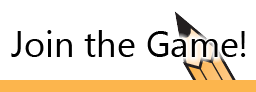
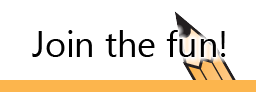
website is pretty much done!

Changed region(s): [[0.0312, 0.2609, 0.9688, 0.6957], [0.25, 0.3261, 0.2812, 0.3696]]

diff --git a/public_html/assets/javascript/paint.js b/public_html/assets/javascript/paint.js
@@ -1138,12 +1138,12 @@ function inviteFriends(tempGameId)
 // pops open a window that gives the user a url that can be shared with friends so that
 // people can join the current paint session
 {
-	window.open("invite.html", "invite", "menubar=no, width=320, height=460, toolbar=no");
+	var popupWindow = window.open("", "invite", "menubar=no, width=440, height=120, toolbar=no");
+	popupWindow.document.write("<head><link href=\"assets/stylesheets/basic.css\" rel=\"stylesheet\" type=\"text/css\" /></head><body><div id=\"headerLite\"></div><div style=\"margin: 16px;\"><h3>Invite your friends by sending them this link!</h3>http://www.wepaint.us/entry.php?game=" + tempGameId + "</p></body>");
 }
 
 
 function downloadPainting()
-// opens a popup window that allows the user to download their painting
 {
 	var downloadedImage = canvas.toDataURL("image/png");
 	var popupWindow = window.open("", "download", "menubar=no, width=720, height=540, toolbar=no");

diff --git a/public_html/about.html b/public_html/about.html
@@ -6,7 +6,6 @@
 	<head>
 		<link href="assets/stylesheets/basic.css" rel="stylesheet" type="text/css" />
 		<meta charset="UTF-8" />
-		<script src="assets/javascript/basic.js" type="text/javascript"></script>
 		<title>About ~ WePaint.us</title>
 	</head>
 
@@ -22,10 +21,6 @@
 			<div id="contentLiteBottom">
 				<h3>We Paint is a semester long project by just four students currently attending <a href="http://www.selu.edu/" target="_blank">Southeastern Louisiana University</a>.</h3>
 				<h3>Check out this project on <a href="https://github.com/ScootrNova/Jiminy-Cricket" target="_blank">github</a>!</h3>
-				<br />
-				<a href="index.php">
-					<img src="images/buttons/backward-48.png" alt="Back" class="noBorder" id="backward-48"  onmouseout="imgMouseOff('buttons', 'backward-48')" onmouseover="imgMouseOn('buttons', 'backward-48')" />
-				</a>
 			</div>
 		</div>
 	</body>

diff --git a/public_html/assets/stylesheets/create.css b/public_html/assets/stylesheets/create.css
@@ -82,16 +82,20 @@ div#compatRight
 div#settingsLeft
 {
 	float: left;
+	height: 140px;
 	text-align: center;
-	width: 284px;
+	vertical-align: middle;
+	width: 370px;
 }
 
 
 div#settingsRight
 {
 	float: left;
+	height: 140px;
 	text-align: center;
-	width: 484px;
+	vertical-align: middle;
+	width: 370px;
 }
 
 
@@ -126,6 +130,8 @@ form#settings
 	padding-left: 16px;
 	padding-right: 16px;
 	padding-top: 16px;
+	text-align: center;
+	vertical-align: middle;
 	width: 768px;
 }
 

diff --git a/public_html/assets/javascript/basic.js b/public_html/assets/javascript/basic.js
@@ -14,6 +14,12 @@ function imgMouseOff(folder, id)
 }
 
 
+function aboutPage()
+{
+	window.open("about.html", "about", "menubar=no, width=800, height=400, toolbar=no");
+}
+
+
 function findEpoch()
 {
 	return Math.round((new Date()).getTime() / 1000);

diff --git a/public_html/index.php b/public_html/index.php
@@ -131,7 +131,7 @@
 				}
 			);
 		</script>
-		<title>Create a Game ~ WePaint.us</title>
+		<title>Paint with your Friends! ~ WePaint.us</title>
 	</head>
 
 	<body>
@@ -140,7 +140,7 @@
 			<img src="images/wepaint.png" alt="WePaint.us" />
 			<img src="images/nav/divider.png" />
 			<img src="images/nav/spacer.png" />
-			<a href="about.html">
+			<a href="#" onclick="aboutPage()">
 				<img src="images/nav/about.png" alt="About" class="noBorder" id="about" onmouseout="imgMouseOff('nav', 'about')" onmouseover="imgMouseOn('nav', 'about')" />
 			</a>
 		</div>
@@ -150,9 +150,9 @@
 	if ($user)
 	// facebook user is logged in AND has granted our application permissions
 	{
-		echo "			<h1 class=\"simpleCenter\">Create a game of We Paint!</h1>\n";
+		echo "			<h1 class=\"simpleCenter\">Paint with your friends!</h1>\n";
 		echo "			<form action=\"wepaint.php\" id=\"settings\" method=\"post\">\n";
-		echo "				<div id=\"settingsRight\">\n";
+		echo "				<div id=\"settingsLeft\">\n";
 		echo "					<div id=\"inviteFriends\">\n";
 		echo "						<h3>Hello " . $userInfo['name'] . "!</h3>\n";
 
@@ -169,14 +169,14 @@
 		echo "						<a href=\"#\" onclick=\"streamPublish('" . $queryString . "')\"><img class=\"noBorder\" id=\"inviteYourFriends\" src=\"images/buttons/inviteYourFriends.png\" onmouseout=\"imgMouseOff('buttons', 'inviteYourFriends')\" onmouseover=\"imgMouseOn('buttons', 'inviteYourFriends')\" /></a>\n";
 		echo "					</div>\n";
 		echo "				</div>\n";
-		echo "				<div id=\"submitSettings\">\n";
+		echo "				<div id=\"settingsRight\">\n";
 		echo "					<input class=\"noBorder\" id=\"letsPaint\" onmouseout=\"imgMouseOff('buttons', 'letsPaint')\" onmouseover=\"imgMouseOn('buttons', 'letsPaint')\" src=\"images/buttons/letsPaint.png\" type=\"image\" />\n";
 		echo "				</div>\n";
 		echo "			</form>\n";
 	}
 	else
 	{
-		echo "			<h1 class=\"simpleCenter\">Sign in with Facebook to play!</h1>\n";
+		echo "			<h1 class=\"simpleCenter\">Sign in with Facebook to paint!</h1>\n";
 		echo "			<div id=\"signInToFacebook\">\n";
 		echo "				<a href=\"" . $loginUrl . "\"><img class=\"noBorder\" id=\"loginBig\" src=\"images/buttons/loginBig.png\" onmouseout=\"imgMouseOff('buttons', 'loginBig')\" onmouseover=\"imgMouseOn('buttons', 'loginBig')\" /></a>\n";
 		echo "			</div>\n";

diff --git a/public_html/entry.php b/public_html/entry.php
@@ -121,7 +121,7 @@
 		echo "				}\n";
 		echo "			);\n";
 		echo "		</script>\n";
-		echo "		<title>Create a Game ~ WePaint.us</title>\n";
+		echo "		<title>Paint with your Friends! ~ WePaint.us</title>\n";
 		echo "	</head>\n";
 		echo "	<body>\n";
 		echo "		<div id=\"fb-root\"></div>\n";
@@ -129,7 +129,7 @@
 		echo "			<img src=\"images/wepaint.png\" alt=\"WePaint.us\" />\n";
 		echo "			<img src=\"images/nav/divider.png\" />\n";
 		echo "			<img src=\"images/nav/spacer.png\" />\n";
-		echo "			<a href=\"about.html\">\n";
+		echo "			<a href=\"#\" onclick=\"aboutPage()\">\n";
 		echo "				<img src=\"images/nav/about.png\" alt=\"About\" class=\"noBorder\" id=\"about\" onmouseout=\"imgMouseOff('nav', 'about')\" onmouseover=\"imgMouseOn('nav', 'about')\" />\n";
 		echo "			</a>\n";
 		echo "		</div>\n";

diff --git a/public_html/wepaint.php b/public_html/wepaint.php
@@ -107,7 +107,7 @@
 				<img src="images/nav/downloadPaint.png" alt="Download your Painting" class="noBorder" id="downloadPaint" onmouseout="imgMouseOff('nav', 'downloadPaint')" onmouseover="imgMouseOn('nav', 'downloadPaint')" />
 			</a>
 			<img src="images/nav/spacer.png" />
-			<a href="about.html" target="_blank">
+			<a href="#" onclick="aboutPage()">
 				<img src="images/nav/about.png" alt="About" class="noBorder" id="about" onmouseout="imgMouseOff('nav', 'about')" onmouseover="imgMouseOn('nav', 'about')" />
 			</a>
 		</div>
